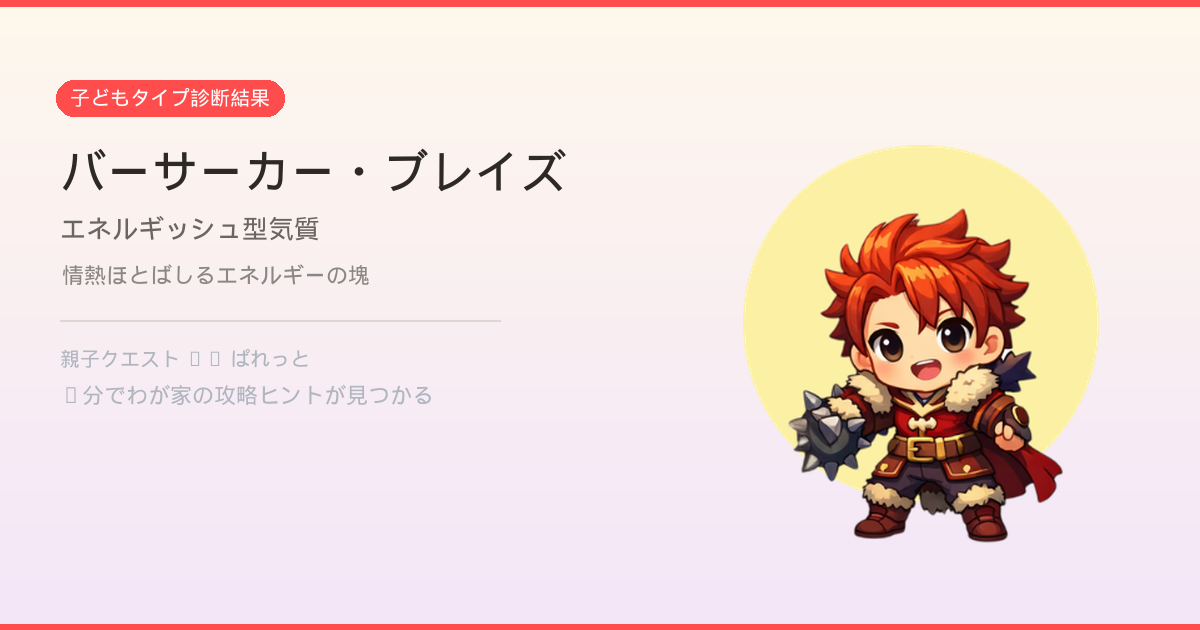
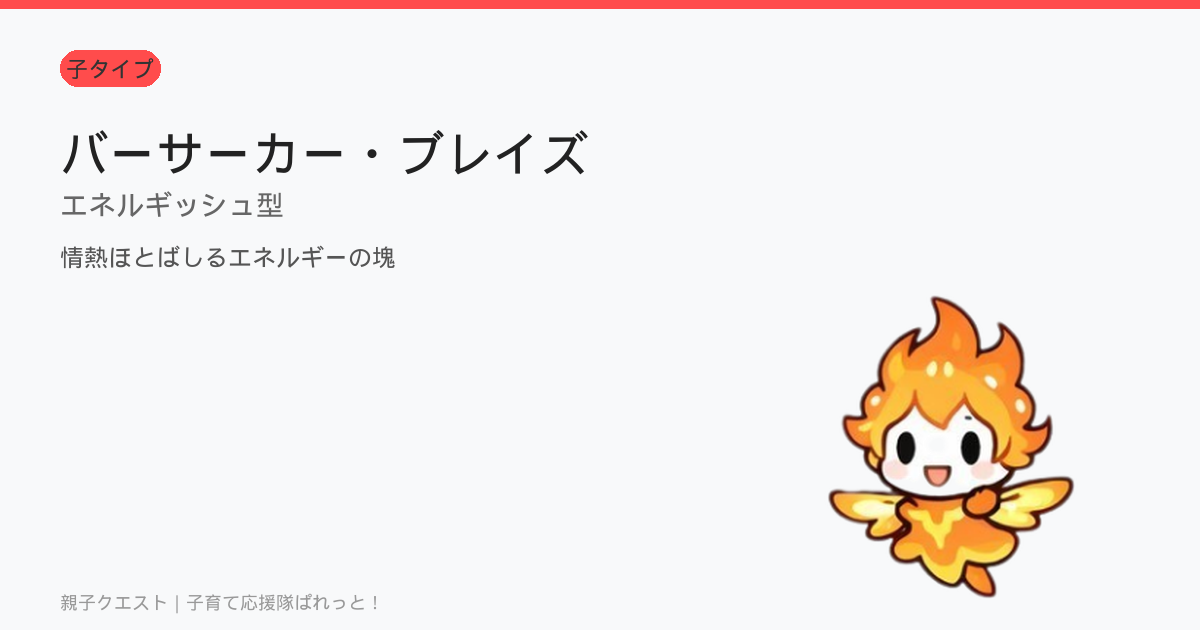
キャラクター画像アップデート＆子供バランス型にguradiankids画像を適用
- 全キャラクター画像をユーザー提供の新画像に更新
- 子供バランス型（ガーディアン・ソル）の画像をguradiankids.pngに変更
- 親AUTHORITATIVE型の画像をparadin.pngからguradian.pngに変更（paradin.png削除対応）
- 全8タイプのOGP画像を新キャラクター画像で再生成

diff --git a/shindan/index.html b/shindan/index.html
@@ -419,13 +419,13 @@ body{font-family:"M PLUS Rounded 1c","Hiragino Kaku Gothic ProN",sans-serif;back
 <script>
 // ===== CHARACTER DATA =====
 const parentChara = {
-  AUTHORITATIVE:{name:"パラディン・エルダ",catch:"愛と秩序で守る守護騎士",img:"asset/paradin.png",color:"var(--paladin)",colorHex:"#4DA8FF"},
+  AUTHORITATIVE:{name:"パラディン・エルダ",catch:"愛と秩序で守る守護騎士",img:"asset/guradian.png",color:"var(--paladin)",colorHex:"#4DA8FF"},
   AUTHORITARIAN:{name:"コマンダー・ヴァルク",catch:"規律で未来を切り拓く戦略家",img:"asset/commander.png",color:"var(--commander)",colorHex:"#1E2A78"},
   PERMISSIVE:{name:"ドルイド・リーフ",catch:"自由を育てる森の守り手",img:"asset/droid.png",color:"var(--druid)",colorHex:"#2F9E44"},
   NEGLECTFUL:{name:"レンジャー・ノクス",catch:"静かに見守る孤高の観察者",img:"asset/ranger.png",color:"var(--ranger)",colorHex:"#1F6B4F"}
 };
 const childChara = {
-  BALANCE:{name:"ガーディアン・ソル",catch:"安定と勇気をあわせ持つ若き守り手",img:"asset/guradian.png",color:"var(--guardian)",colorHex:"#C7CCD6"},
+  BALANCE:{name:"ガーディアン・ソル",catch:"安定と勇気をあわせ持つ若き守り手",img:"asset/guradiankids.png",color:"var(--guardian)",colorHex:"#C7CCD6"},
   ENERGETIC:{name:"バーサーカー・ブレイズ",catch:"情熱ほとばしるエネルギーの塊",img:"asset/berseker.png",color:"var(--berserker)",colorHex:"#FF4C4C"},
   CAUTIOUS:{name:"アルケミスト・ミラ",catch:"知恵と観察で道を拓く探究者",img:"asset/archemist.png",color:"var(--alchemist)",colorHex:"#7B5CFF"},
   EASYGOING:{name:"モンク・ルーナ",catch:"静かな強さを秘めた癒しの存在",img:"asset/monk.png",color:"var(--monk)",colorHex:"#FFC83D"}
@@ -666,7 +666,7 @@ function updateTopDiagnosed(){
   if(!hasPar&&!hasChi){
     sampleArea.innerHTML=`<div class="sample-preview">
       <div class="sample-chara">
-        <img src="asset/paradin.png" alt="パラディン">
+        <img src="asset/guradian.png" alt="パラディン">
         <div class="sample-chara-info">
           <h3>パラディン・エルダ</h3>
           <p>あたたかルール型</p>
